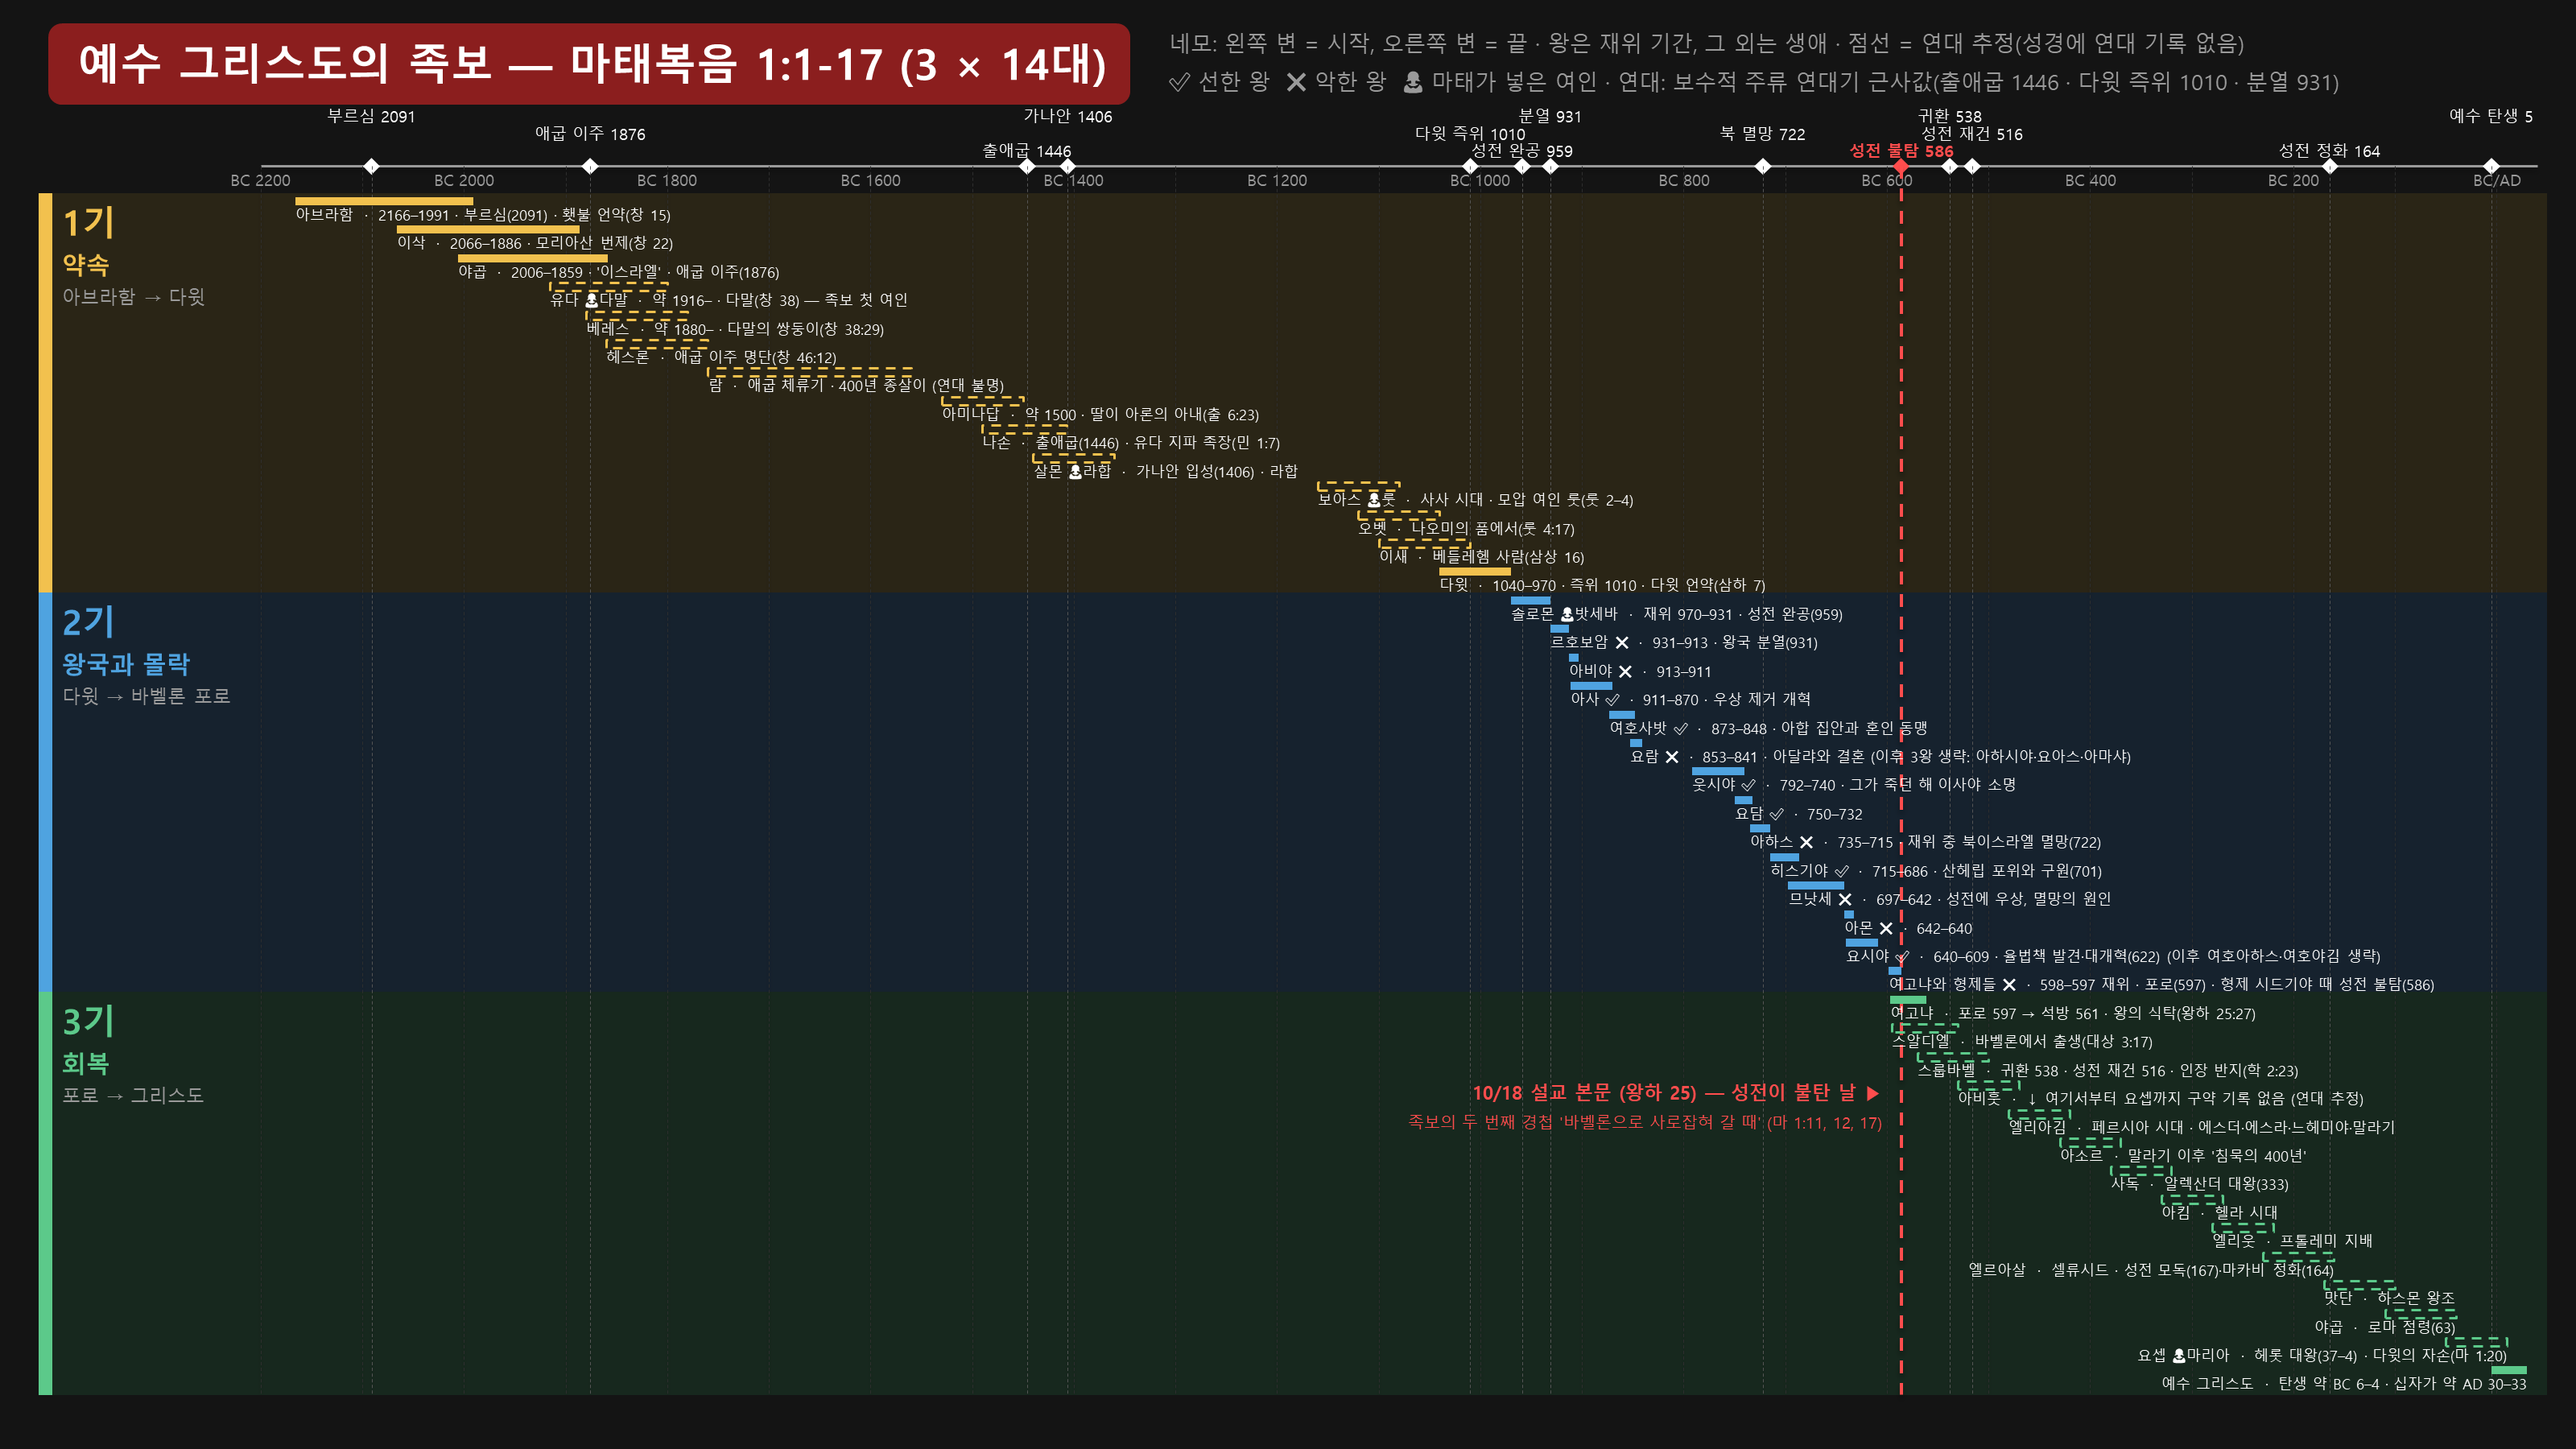
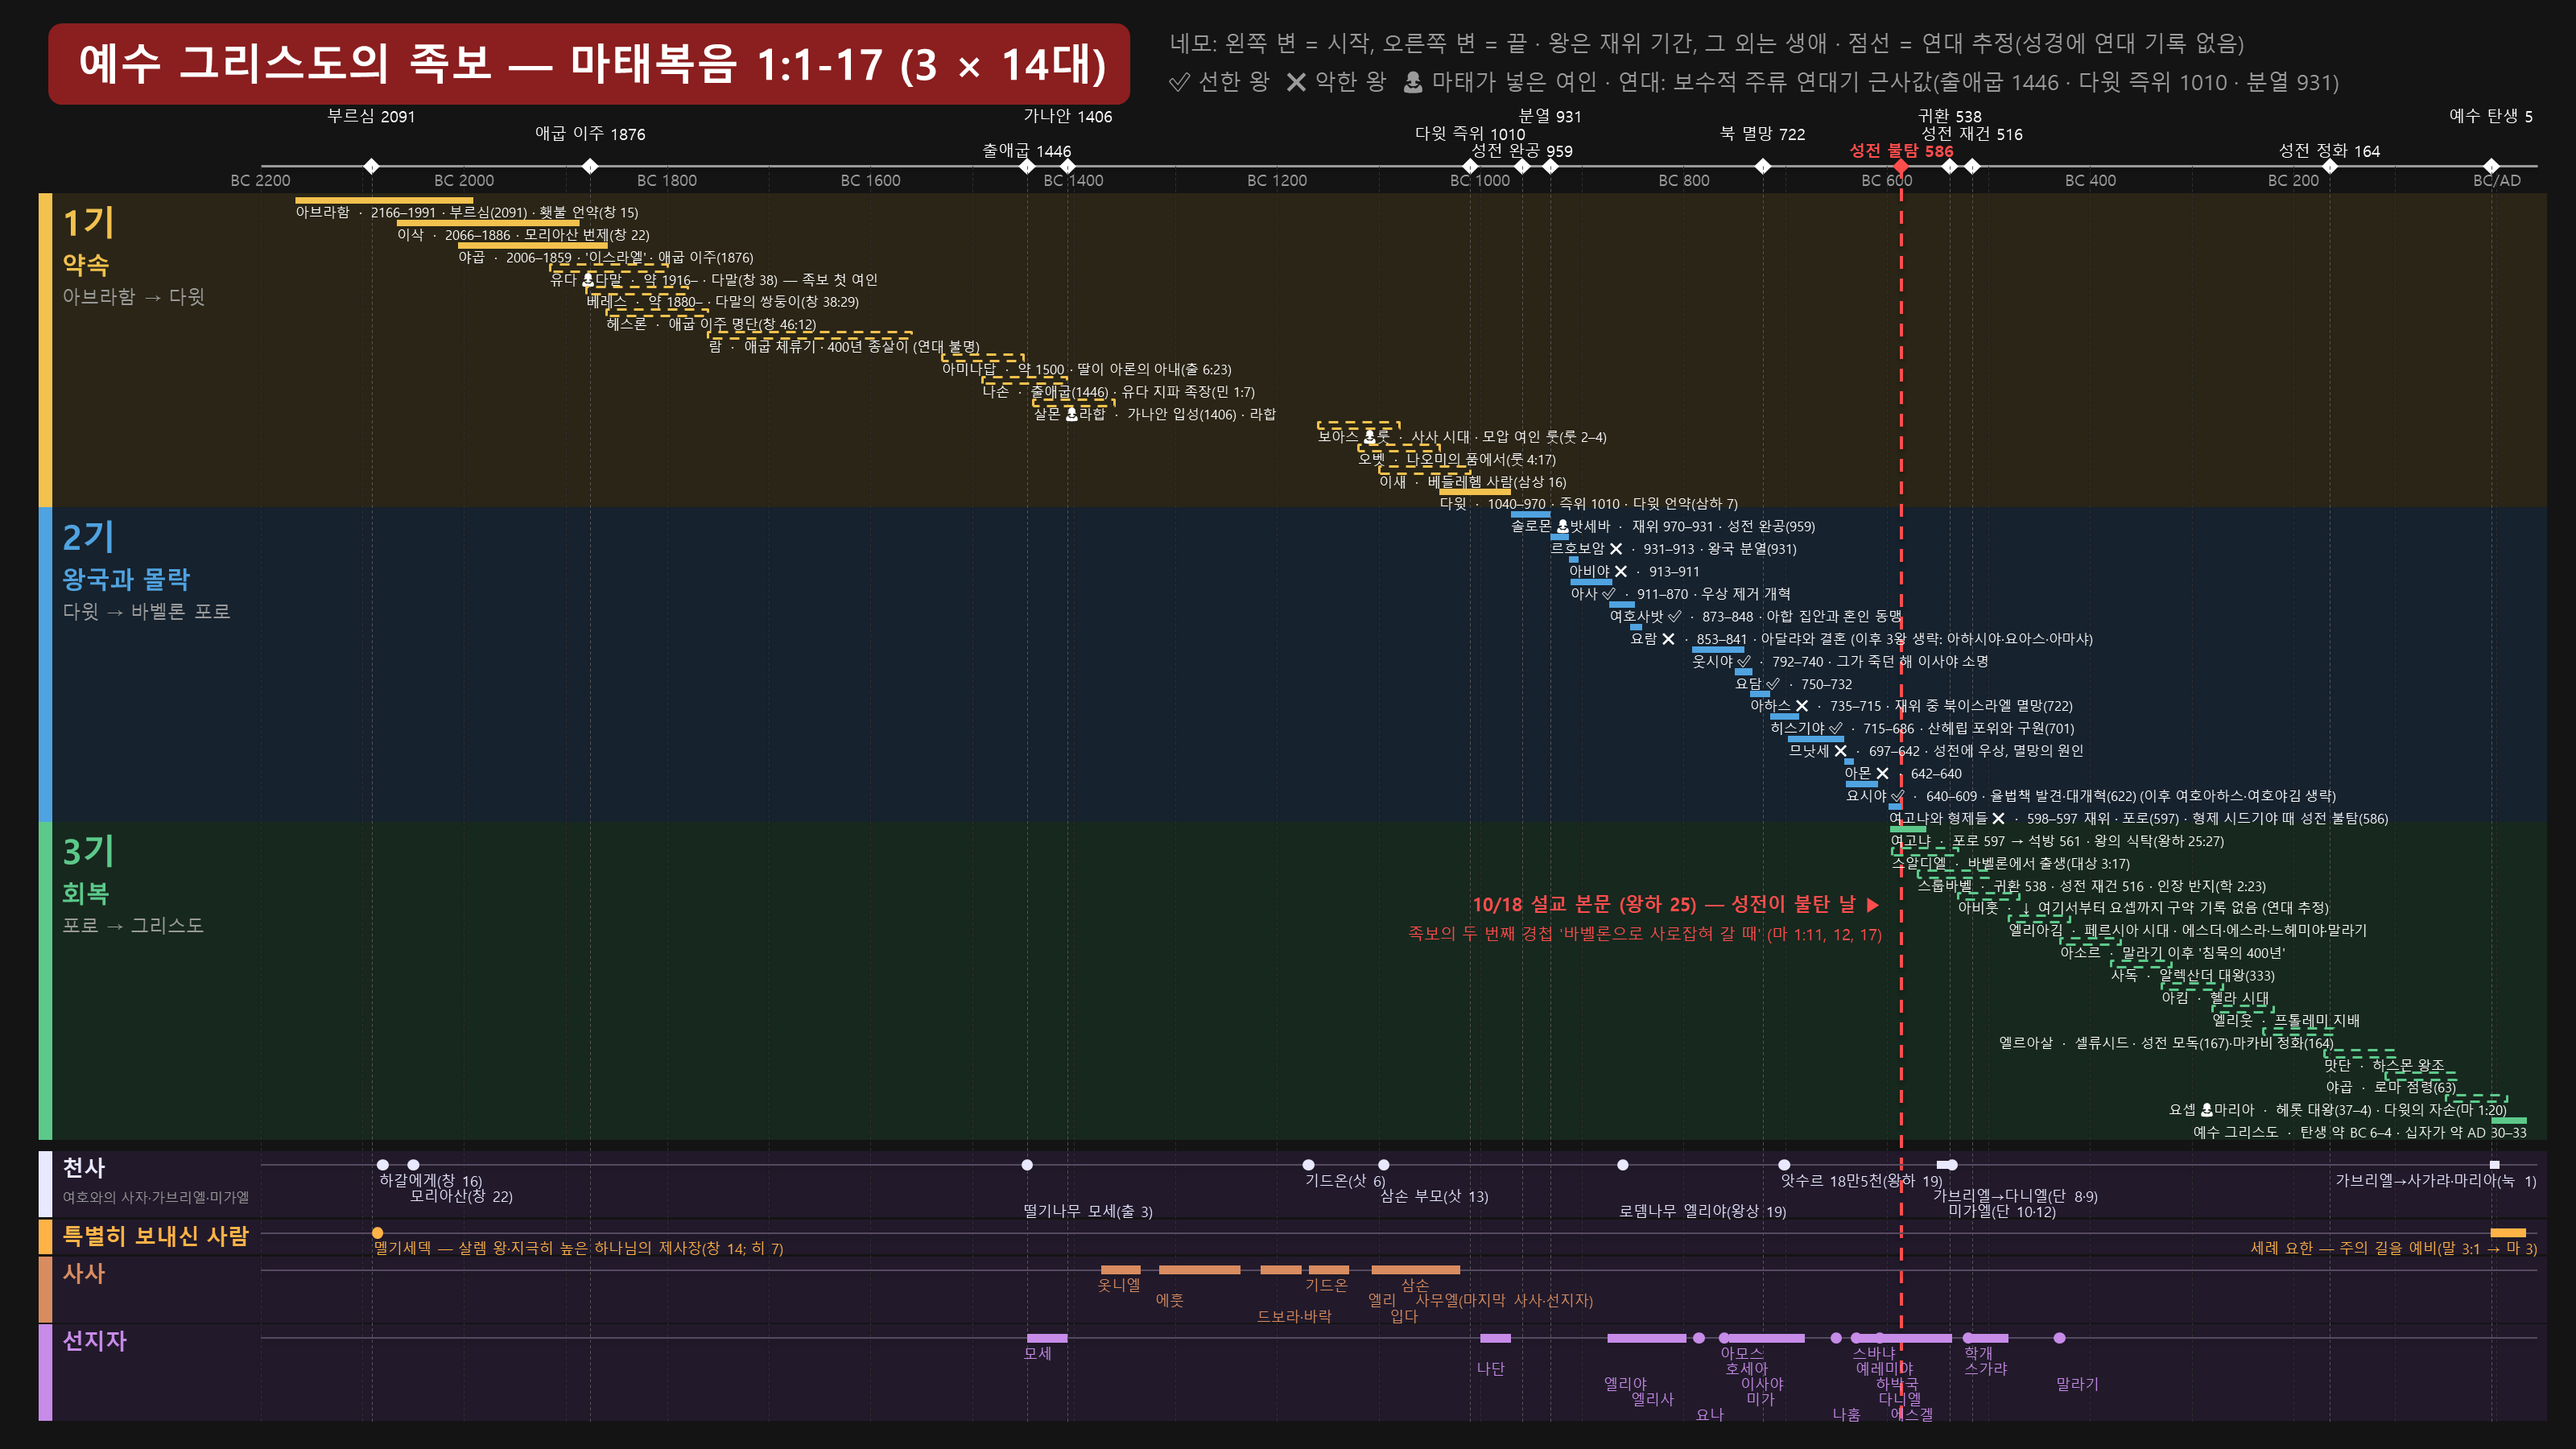
feat(media): 족보 연표에 '하나님이 보내신 사람들' 레인 추가 (천사·멜기세덱·세례요한·사사·선지자)

diff --git a/scripts/make_genealogy_timeline_ppt.py b/scripts/make_genealogy_timeline_ppt.py
@@ -84,11 +84,47 @@ SW, SH = 13.333, 7.5
 X0, X1 = 1.35, SW - 0.2            # plot area (left leaves room for period labels)
 T0, T1 = -2200, 40
 TOP = 1.02                          # first row top
-BOTTOM = SH - 0.28
+ROW_BOTTOM = 5.9                   # genealogy rows end here
+BOTTOM = SH - 0.14                  # vertical guide lines run through the messenger band too
 N = len(ROWS)
-PITCH = (BOTTOM - TOP) / N
-BAR_H = 0.042
-TXT_H = 0.09
+PITCH = (ROW_BOTTOM - TOP) / N
+BAR_H = 0.034
+TXT_H = 0.078
+ROW_FONT = 5
+
+# ---------- 하나님이 보내신 사람들 (계단이 아니라 한 줄씩) ----------
+# (라벨, 시작, 끝 or None, 비고) — BC 음수
+MESSENGER_LANES = [
+    ("천사", RGBColor(0xE8, 0xE8, 0xFF), 3, [
+        ("하갈에게(창 16)", -2080, None),
+        ("모리아산(창 22)", -2050, None),
+        ("떨기나무 모세(출 3)", -1446, None),
+        ("기드온(삿 6)", -1169, None),
+        ("삼손 부모(삿 13)", -1095, None),
+        ("로뎀나무 엘리야(왕상 19)", -860, None),
+        ("앗수르 18만5천(왕하 19)", -701, None),
+        ("가브리엘→다니엘(단 8·9)", -551, -539),
+        ("미가엘(단 10·12)", -536, None),
+        ("가브리엘→사가랴·마리아(눅 1)", -7, -6),
+    ]),
+    ("특별히 보내신 사람", RGBColor(0xFF, 0xB3, 0x47), 1, [
+        ("멜기세덱 — 살렘 왕·지극히 높은 하나님의 제사장(창 14; 히 7)", -2085, None),
+        ("세례 요한 — 주의 길을 예비(말 3:1 → 마 3)", -6, 29),
+    ]),
+    ("사사", RGBColor(0xD9, 0x8C, 0x5F), 3, [
+        ("옷니엘", -1373, -1334), ("에훗", -1316, -1236), ("드보라·바락", -1216, -1176),
+        ("기드온", -1169, -1129), ("입다", -1086, -1080), ("엘리", -1107, -1067),
+        ("삼손", -1075, -1055), ("사무엘(마지막 사사·선지자)", -1060, -1020),
+    ]),
+    ("선지자", RGBColor(0xC7, 0x8B, 0xE8), 5, [
+        ("모세", -1446, -1406), ("나단", -1000, -970), ("엘리야", -875, -848), ("엘리사", -848, -797),
+        ("요나", -785, None), ("아모스", -760, None), ("호세아", -755, -715), ("이사야", -740, -681),
+        ("미가", -735, -700), ("나훔", -650, None), ("스바냐", -630, None), ("예레미야", -627, -586),
+        ("하박국", -607, None), ("다니엘", -605, -536), ("에스겔", -593, -571), ("학개", -520, None),
+        ("스가랴", -520, -480), ("말라기", -430, None),
+    ]),
+]
+LANE_H = {1: 0.18, 3: 0.34, 5: 0.5}
 
 
 def xpos(year):
@@ -162,6 +198,20 @@ for p in (1, 2, 3):
     sub = {1: "아브라함 → 다윗", 2: "다윗 → 바벨론 포로", 3: "포로 → 그리스도"}[p]
     text(0.32, y0 + 0.48, 1.0, 0.2, sub, 7, GREY)
 
+# messenger band backgrounds (drawn before the guide lines so the lines stay visible)
+MB_TOP = ROW_BOTTOM + 0.06
+BAND_BG = RGBColor(0x22, 0x1A, 0x2B)
+lane_y = []
+yy = MB_TOP
+for name, col, lv, items in MESSENGER_LANES:
+    h = LANE_H[lv]
+    box(0.2, yy, SW - 0.35, h, fill=BAND_BG)
+    box(0.2, yy, 0.07, h, fill=col)
+    text(0.32, yy + 0.02, 1.0, 0.14, name, 8, col, bold=True)
+    lane_y.append((yy, h))
+    yy += h + 0.012
+text(0.32, MB_TOP + 0.2, 1.0, 0.1, "여호와의 사자·가브리엘·미가엘", 5, GREY)
+
 # ---------- time axis + milestones ----------
 AX_Y = 0.86
 ax = s.shapes.add_connector(MSO_CONNECTOR.STRAIGHT, Inches(X0), Inches(AX_Y), Inches(X1), Inches(AX_Y))
@@ -182,7 +232,7 @@ for i, (yr, lab) in enumerate(MILESTONES):
     text(x - 0.45, ty, 0.9, 0.11, f"{lab} {-yr if yr < 0 else ''}".strip(), 6, col, bold=(yr == HIGHLIGHT), align=PP_ALIGN.CENTER)
 
 # ---------- rows (staircase) ----------
-CHAR_W = 0.052  # approx width per char @6pt (Korean)
+CHAR_W = 0.045  # approx width per char @5pt (Korean)
 for i, (p, name, a, b, est, info) in enumerate(ROWS):
     y = TOP + i * PITCH
     xa, xb = xpos(a), xpos(b)
@@ -195,10 +245,30 @@ for i, (p, name, a, b, est, info) in enumerate(ROWS):
     tw = len(label) * CHAR_W + 0.1
     ty = y + BAR_H + 0.004
     if xa + tw <= SW - 0.2:
-        text(xa, ty, tw, TXT_H, label, 5.5, WHITE)
+        text(xa, ty, tw, TXT_H, label, ROW_FONT, WHITE)
     else:  # near the right edge → right-align to bar end
         right = min(xa + w, SW - 0.2)
-        text(right - tw, ty, tw, TXT_H, label, 5.5, WHITE, align=PP_ALIGN.RIGHT)
+        text(right - tw, ty, tw, TXT_H, label, ROW_FONT, WHITE, align=PP_ALIGN.RIGHT)
+
+# ---------- messengers: one straight line per lane ----------
+for (name, col, lv, items), (ly, lh) in zip(MESSENGER_LANES, lane_y):
+    line_y = ly + 0.07
+    ln = s.shapes.add_connector(MSO_CONNECTOR.STRAIGHT, Inches(X0), Inches(line_y), Inches(X1), Inches(line_y))
+    ln.line.color.rgb = RGBColor(0x55, 0x4A, 0x60); ln.line.width = Pt(0.5)
+    for k, (lab, a, b) in enumerate(sorted(items, key=lambda it: it[1])):
+        xa = xpos(a)
+        if b is None:
+            box(xa - 0.03, line_y - 0.03, 0.06, 0.06, fill=col, shape=MSO_SHAPE.OVAL)
+        else:
+            xb = xpos(b)
+            box(xa, line_y - 0.022, max(xb - xa, 0.05), 0.044, fill=col)
+        lvl = k % lv
+        ty = line_y + 0.035 + lvl * 0.08
+        tw = len(lab) * 0.047 + 0.1
+        if xa + tw > SW - 0.2:
+            text(SW - 0.2 - tw, ty, tw, 0.08, lab, 5.5, col, align=PP_ALIGN.RIGHT)
+        else:
+            text(xa - 0.02, ty, tw, 0.08, lab, 5.5, col)
 
 # ---------- 586 callout (left of the red line, in the empty 3기 area) ----------
 x = xpos(HIGHLIGHT)
